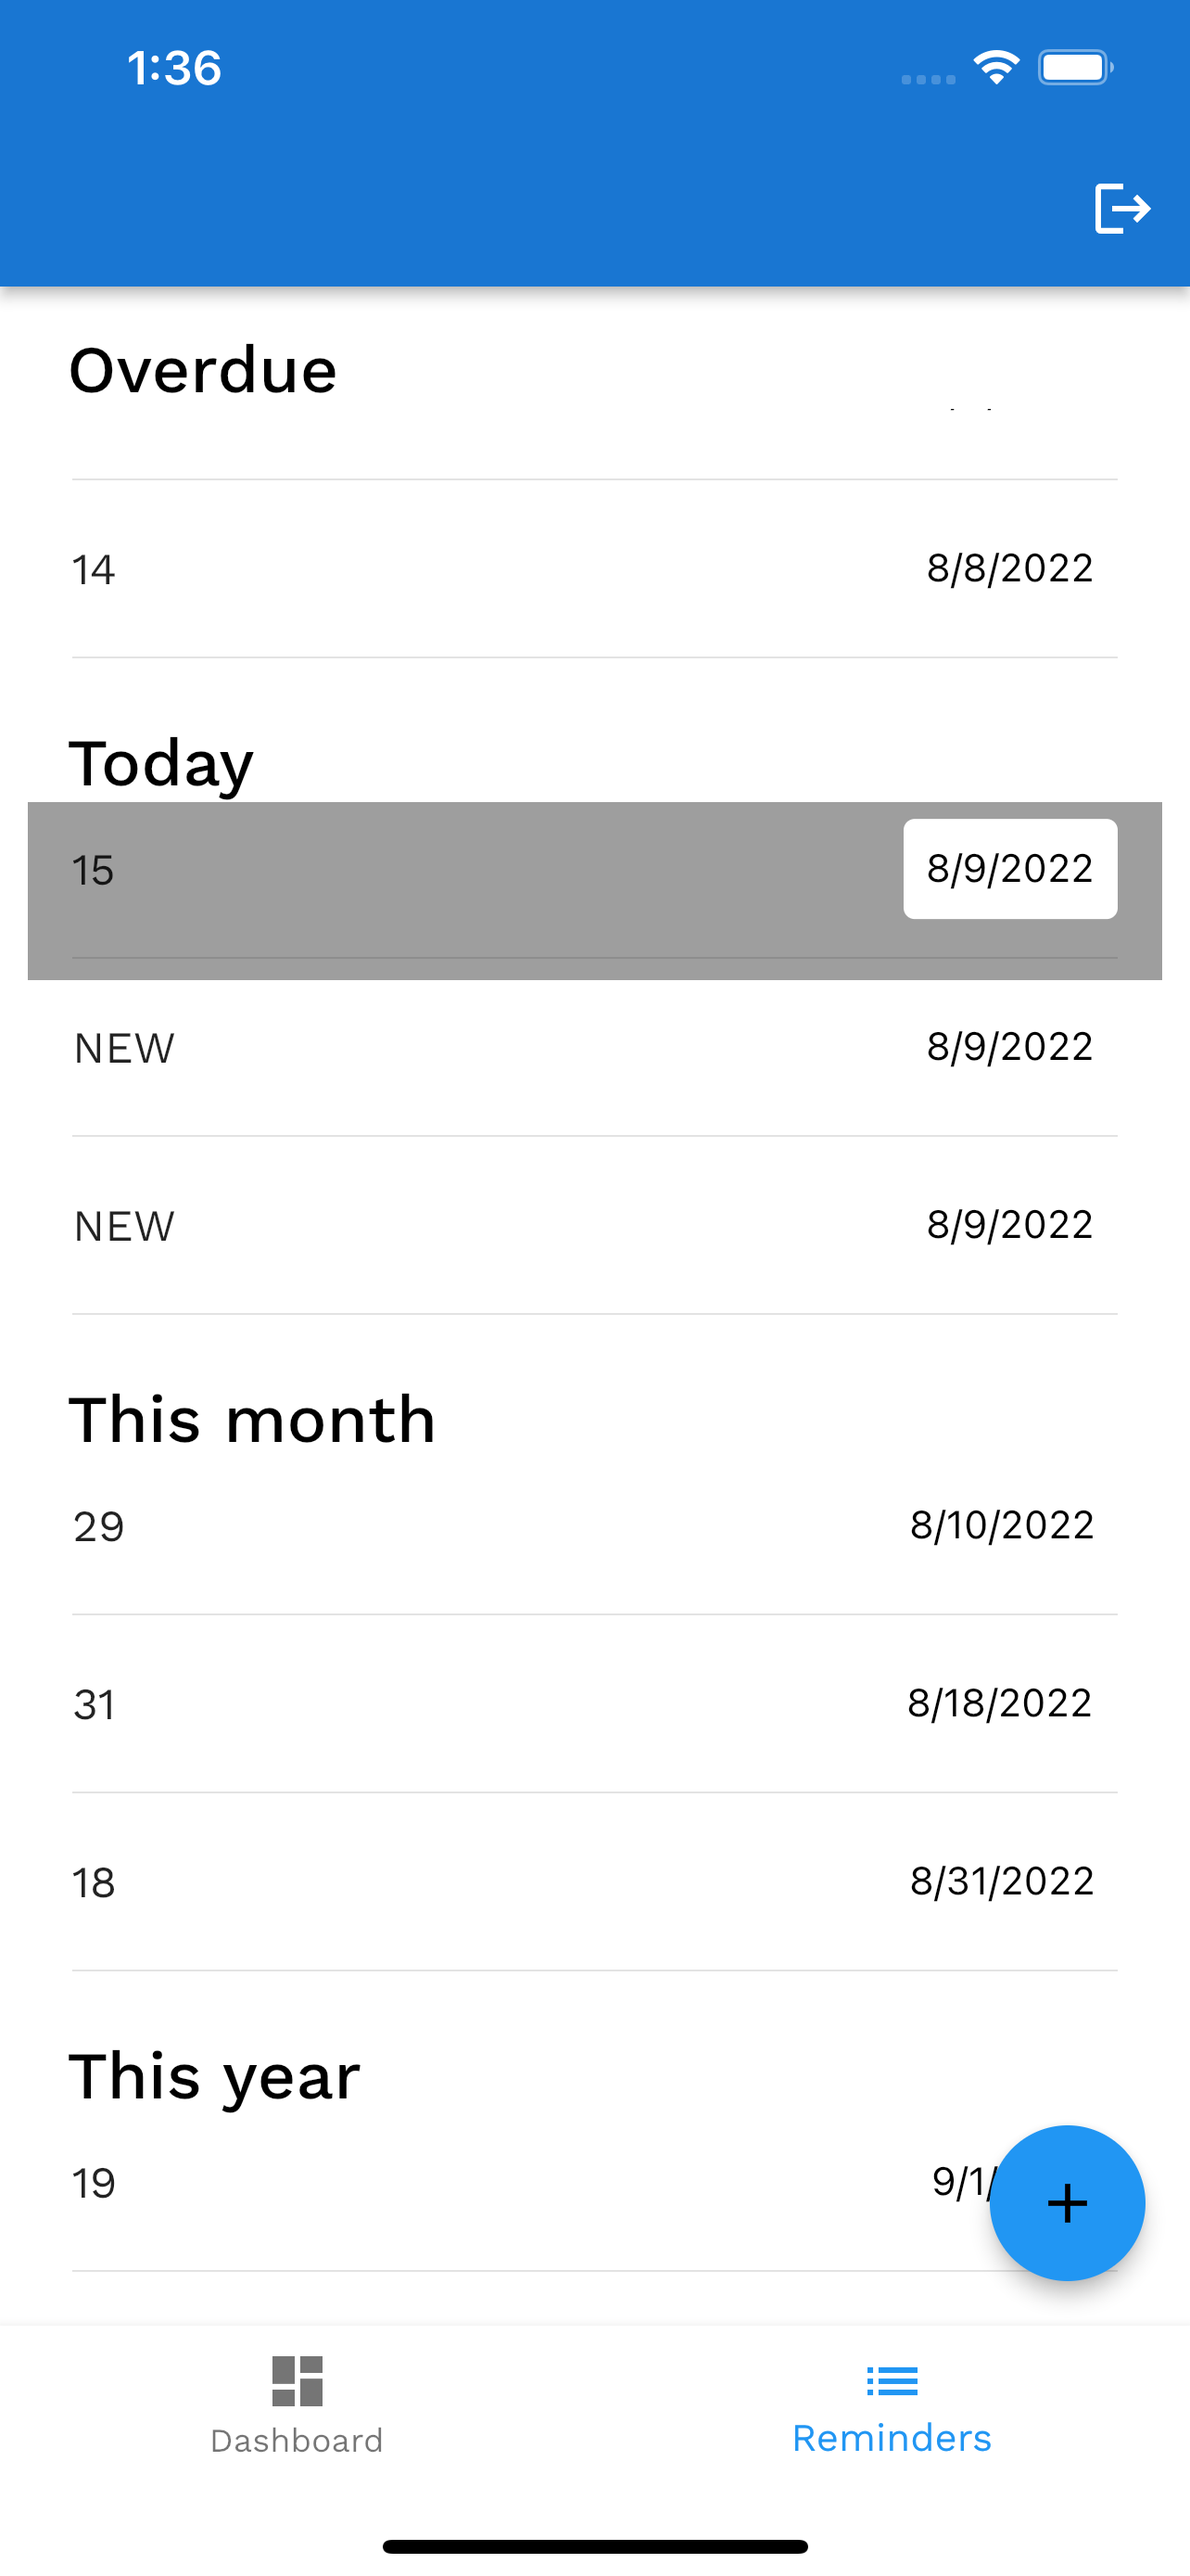
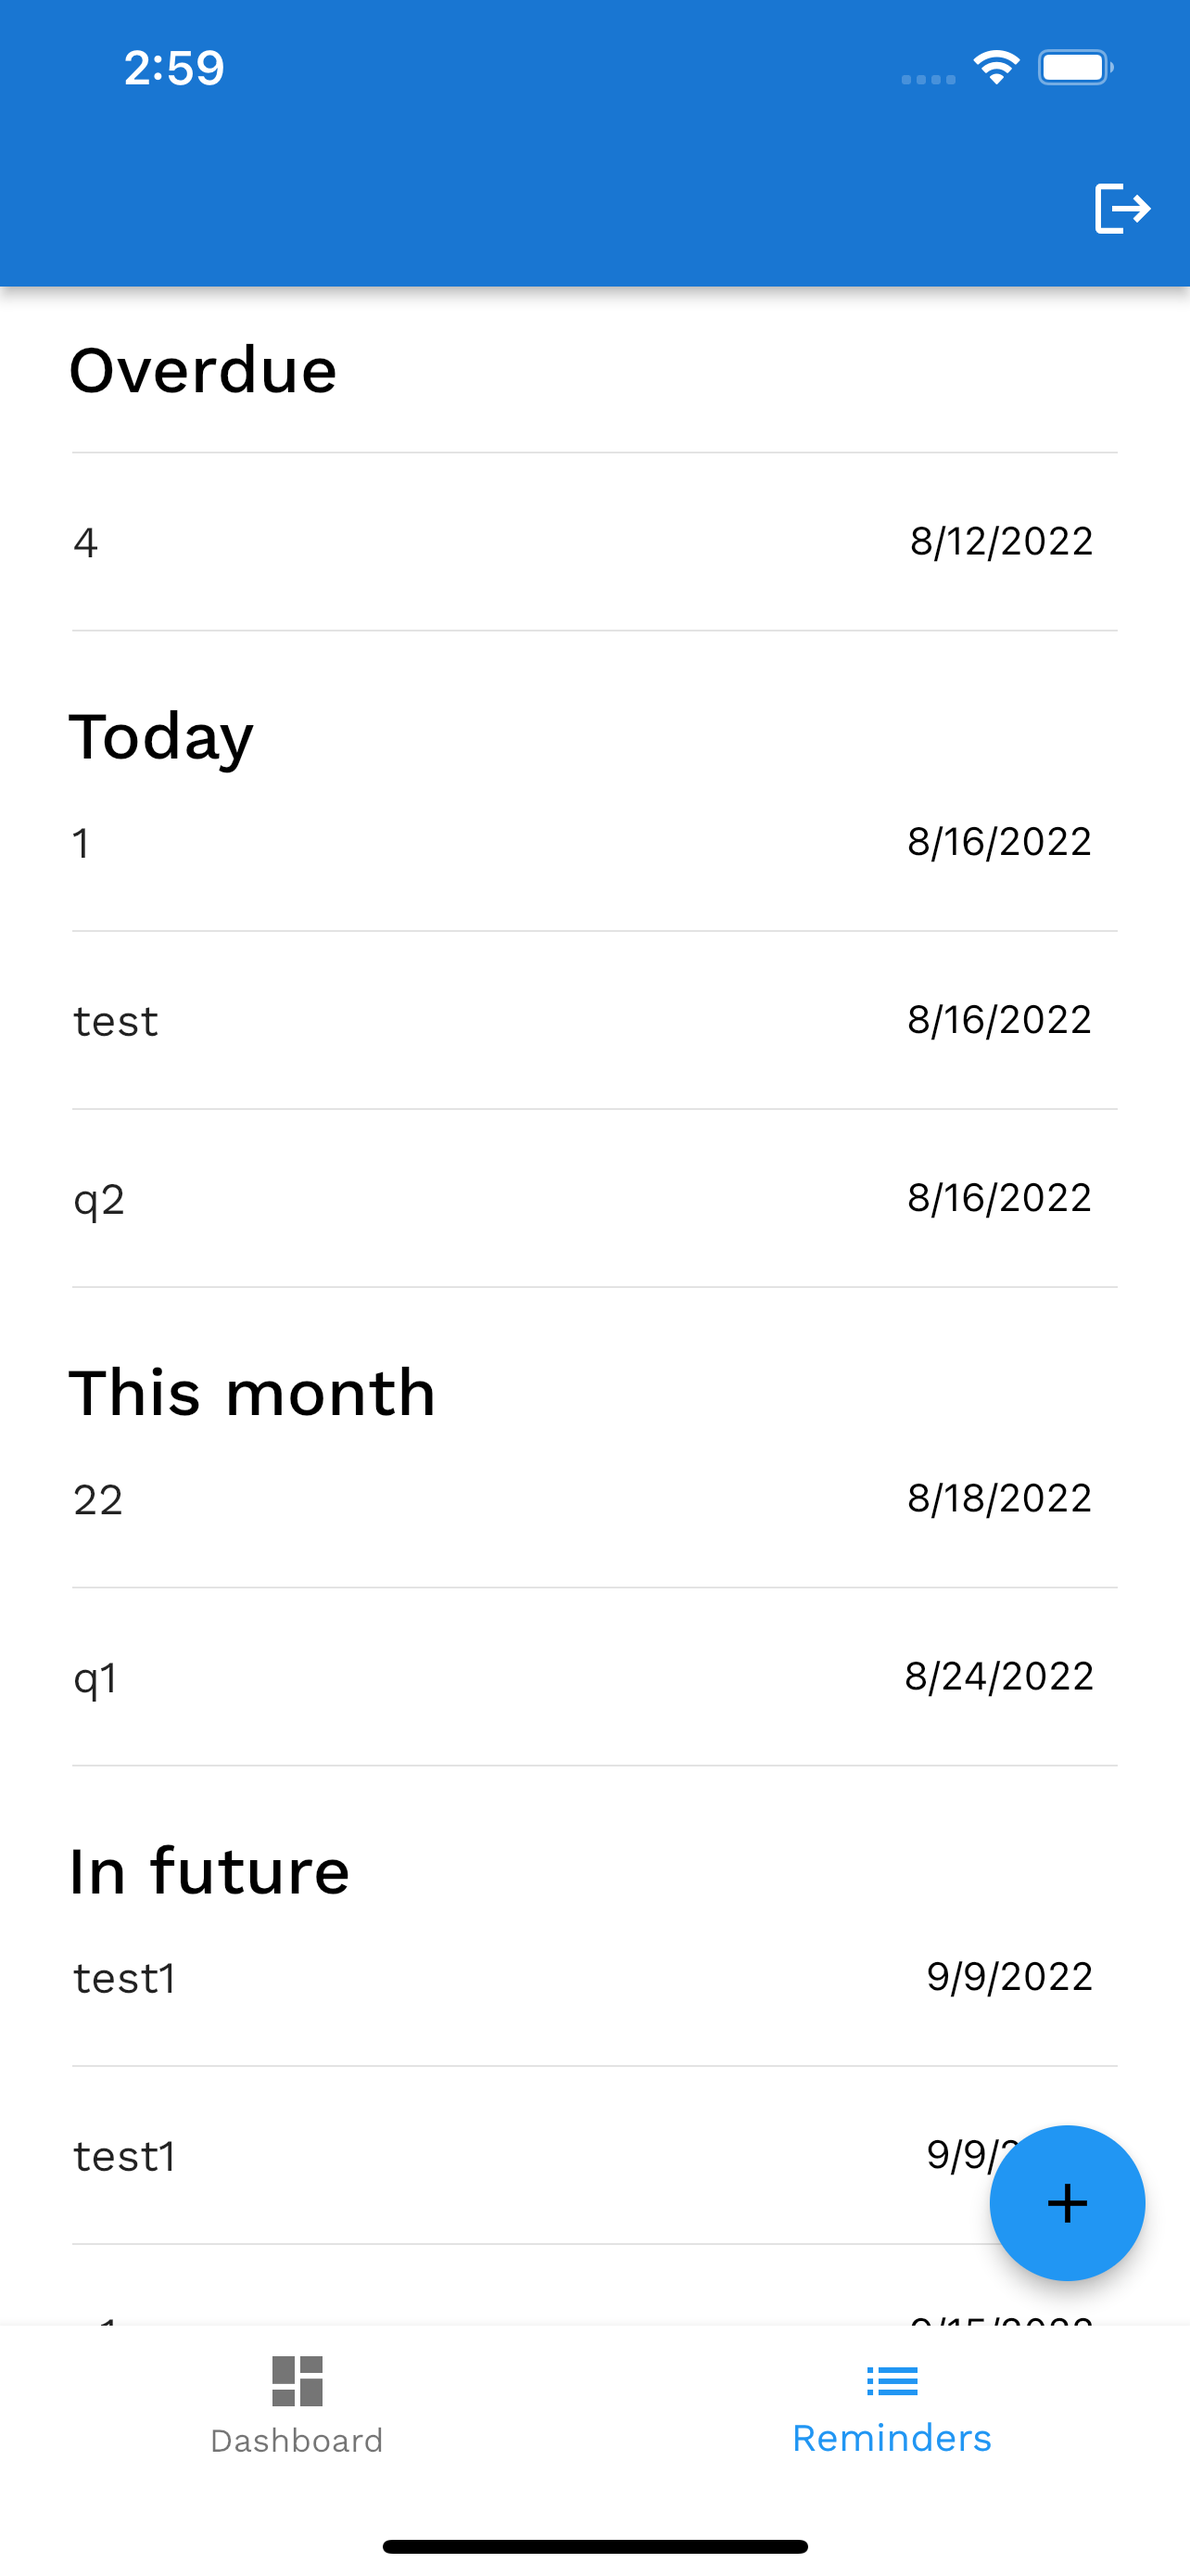
Update documentation with the changed name of the group In future

diff --git a/examples/reminders/app_spec.md b/examples/reminders/app_spec.md
@@ -86,7 +86,7 @@ This is a user application specification of the reminders sample app.
 
   - When the page is loaded for the first time, a circular loading indicator is displayed in the middle of the screen.
   - When the page is loaded for the first time, the first 10 reminders in the reminders list are fetched. There is pagination on the list with a size of 10 of each page. The list is filtered by due date descending.
-  - There are 4 groups of reminders on the page according to their due date: 'Overdue', 'Today', 'This month', 'This year'. 'Overdue' has all reminders before today, 'Today' has all reminders from today, 'This month' has all reminders from tomorrow until the end of the current month and 'This year' has all reminders from the beginning of the next month until the end of the year.
+  - There are 4 groups of reminders on the page according to their due date: 'Overdue', 'Today', 'This month', 'In future'. 'Overdue' has all reminders before today, 'Today' has all reminders from today, 'This month' has all reminders from tomorrow until the end of the current month and 'In future' has all reminders from the beginning of the next month until the end of the year.
 
 ### Pull To Refresh Reminder List Page
 
